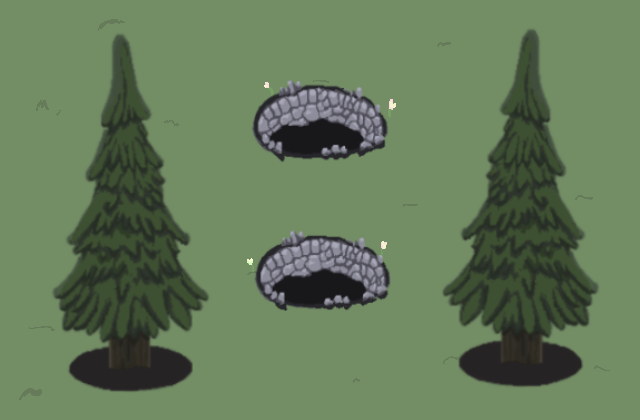
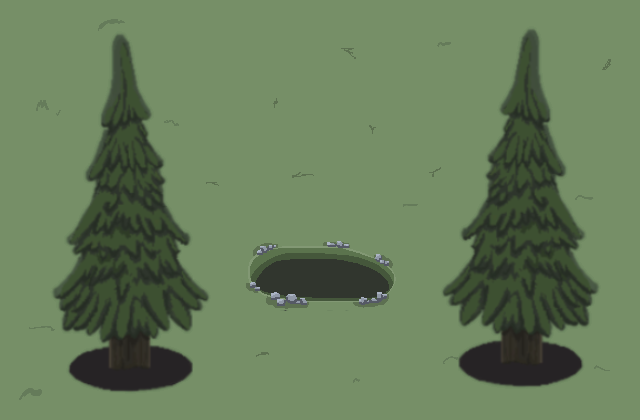
changed maps

Changed region(s): [[0.375, 0.5571, 0.625, 0.7429], [0.375, 0.1857, 0.625, 0.4024], [0.5312, 0.0929, 0.5625, 0.1238]]

diff --git a/src/prefabs/ET.js b/src/prefabs/ET.js
@@ -3,8 +3,6 @@ class ET extends Phaser.GameObjects.Sprite {
         super(scene, x, y, texture, frame);
         scene.add.existing(this);
         this.scene.physics.add.existing(this);
-
-        this.body.setGravity(0,10);
         //this.sfxET = scene.sound.add('sound-name');
         this.speed = 4;
         this.hudHeight = 2 * 47;
@@ -15,7 +13,7 @@ class ET extends Phaser.GameObjects.Sprite {
     }
 
     update(bg, npc){
-        this.setScale(2);
+        //this.setScale(2);
         //movement
         if(keyUP.isDown){
             // this.y -= this.speed;
@@ -53,14 +51,11 @@ class ET extends Phaser.GameObjects.Sprite {
             this.body.setVelocityY(-(this.VELOCITY/3));
             
         }
-        console.log(game.global.fall);
         if (game.global.fall) {
             this.updateMap(7);
             if (this.y < this.topMargin) {
                 game.global.reposition = true;
                 game.global.fall = false;
-                this.body.setAllowGravity(false);
-                console.log(game.global.bg_map);
                 this.updateMap(game.global.bg_map);
                 this.play('walk');
             }
@@ -184,7 +179,6 @@ class ET extends Phaser.GameObjects.Sprite {
     }
     
     updateMap(map) {
-        console.log("update ", map);
         bg.setTexture('map' + map);
         obstaclesGroup.clear(true);
         holesGroup.clear(true);
@@ -198,7 +192,6 @@ class ET extends Phaser.GameObjects.Sprite {
             holesGroup.clear(true);
 
             if (game.global.reposition == true) {
-                console.log("repos");
                 game.global.reposition = false;
                 this.x = 290;
                 this.y = 50;
@@ -206,10 +199,9 @@ class ET extends Phaser.GameObjects.Sprite {
             if (!keySPACE.isDown) {
                 this.body.setVelocityY(this.VELOCITY/2);
             }
-            this.body.setAllowGravity(true);
-            let ground = this.scene.add.rectangle(500,420,1000,42,0x6666ff);
-            let leftside = this.scene.add.rectangle(0,0,200,840,0x6666ff);
-            let rightside = this.scene.add.rectangle(500,420,30,840,0x6666ff);
+            let ground = this.scene.add.rectangle(500,420 + this.topUI,1000,42,0x6666ff);
+            let leftside = this.scene.add.rectangle(0,0,200 + this.topUI,840,0x6666ff);
+            let rightside = this.scene.add.rectangle(500,420 + this.topUI,30,840,0x6666ff);
 
             this.scene.physics.add.existing(ground);
             this.scene.physics.add.existing(leftside);

diff --git a/src/scenes/Play.js b/src/scenes/Play.js
@@ -92,6 +92,7 @@ class Play extends Phaser.Scene{
         piece3.alpha = 0;
         
         this.mainSprite = new ET(this, game.config.width/2 - 43, game.config.height / 2 - 63, 'ET').setOrigin(0,0);
+        this.mainSprite.setScale(1.5);
         this.mainSprite.play('walk');
         
         keyLEFT = this.input.keyboard.addKey(Phaser.Input.Keyboard.KeyCodes.LEFT);
